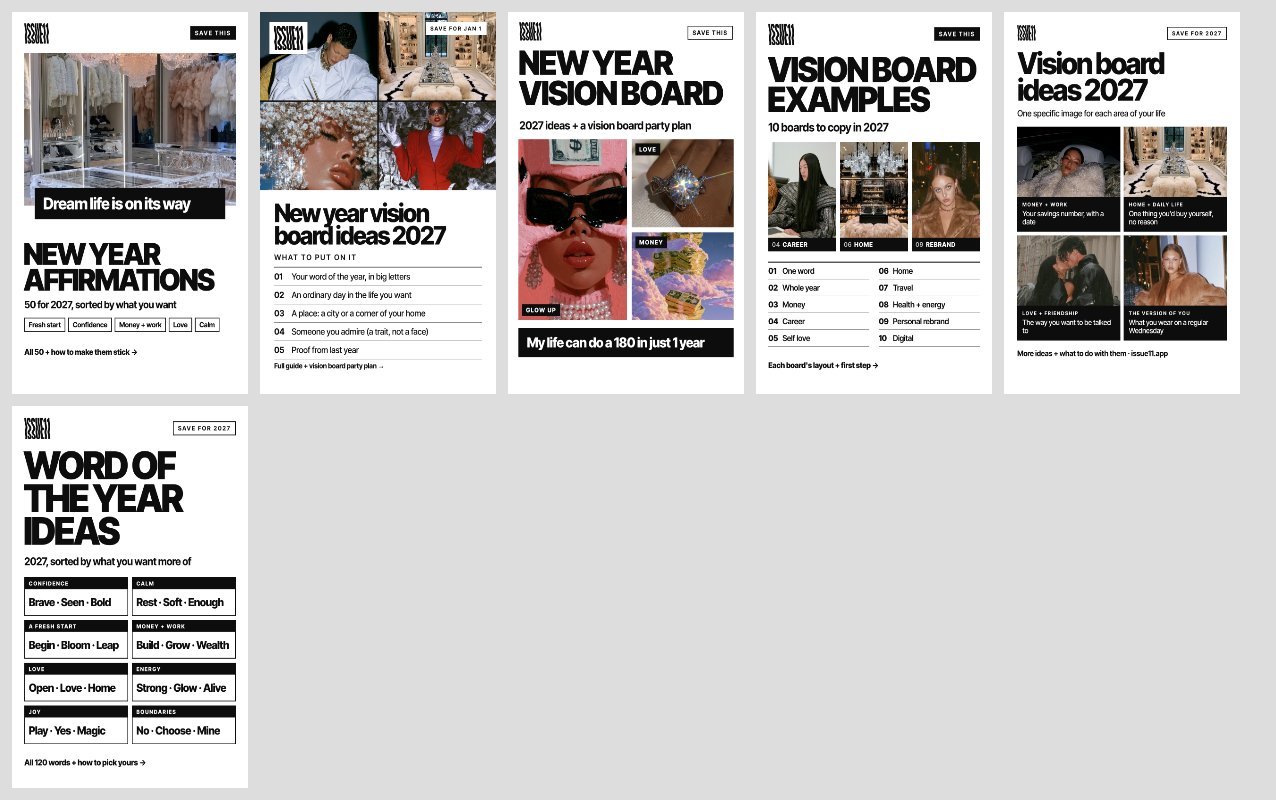
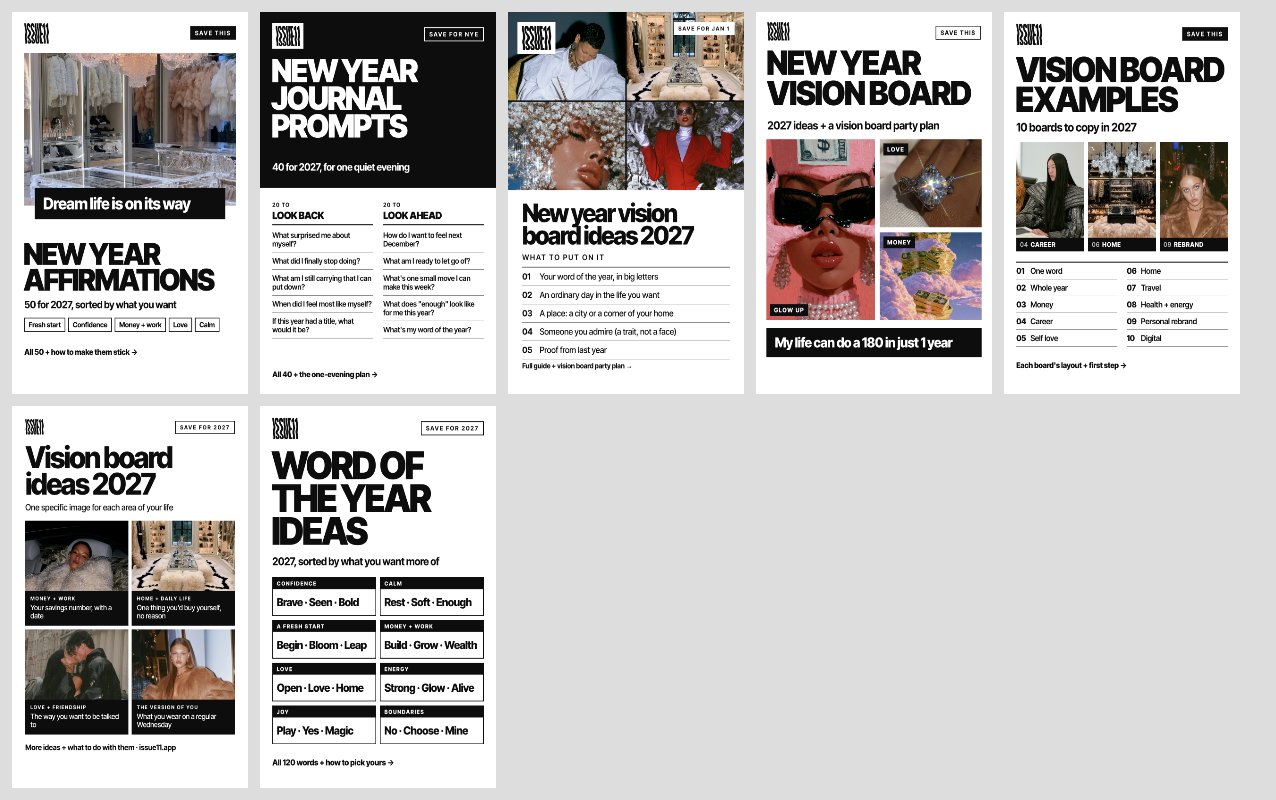
Pinterest hourly: new-year-journal-prompts article pin (QA passed)
Claude-Session: https://claude.ai/code/session_01YGtmQppBCBt9nypMHzxSp1

diff --git a/drafts/pinterest/article-pins/ArticlePinNYJ.dc.html b/drafts/pinterest/article-pins/ArticlePinNYJ.dc.html
@@ -1,0 +1,61 @@
+<!doctype html>
+<html lang="en">
+<head>
+<meta charset="utf-8">
+<title>Article pin · new-year-journal-prompts · 40 for 2027</title>
+<script src="./support.js"></script>
+</head>
+<body>
+<x-dc>
+<helmet>
+<link href="https://fonts.googleapis.com/css2?family=Inter+Tight:wght@500;600;700;800;900&amp;display=swap" rel="stylesheet">
+<style>
+body{margin:0}
+.pin{width:1000px;height:1500px;position:relative;overflow:hidden;background:#fff;color:#0D0D0D;font-family:'Inter Tight',system-ui,sans-serif}
+.top{position:absolute;left:0;right:0;top:0;height:690px;background:#0D0D0D;color:#fff}
+.logo{position:absolute;left:52px;top:44px;height:80px;background:#fff;padding:10px 14px}
+.save{position:absolute;right:52px;top:60px;border:3px solid #fff;font-weight:700;font-size:24px;letter-spacing:.16em;padding:10px 18px}
+h1{position:absolute;left:48px;right:48px;top:176px;margin:0;font-weight:900;font-size:126px;line-height:.86;letter-spacing:-.05em;text-transform:uppercase}
+.sub{position:absolute;left:52px;top:584px;font-weight:700;font-size:40px;letter-spacing:-.025em}
+.cols{position:absolute;left:52px;right:52px;top:744px;display:grid;grid-template-columns:1fr 1fr;column-gap:44px}
+.col h2{margin:0 0 6px;font-weight:900;font-size:40px;letter-spacing:-.03em;text-transform:uppercase;border-bottom:4px solid #0D0D0D;padding-bottom:10px}
+.col h2 small{display:block;font-size:22px;font-weight:700;letter-spacing:.12em;margin-bottom:4px}
+.col p{margin:0;padding:16px 0;border-bottom:1.5px solid #0D0D0D;font-weight:600;font-size:30px;line-height:1.14;letter-spacing:-.015em}
+.cta{position:absolute;left:52px;top:1404px;font-size:31px;font-weight:800;letter-spacing:-.015em}
+</style>
+</helmet>
+<div class="pin">
+  <div class="top">
+    <img class="logo" src="/_blob/d196614efc6265e2205729134fb523b8" alt="ISSUE11">
+    <div class="save">SAVE FOR NYE</div>
+    <h1>New year journal prompts</h1>
+    <div class="sub">40 for 2027, for one quiet evening</div>
+  </div>
+  <div class="cols">
+    <div class="col">
+      <h2><small>20 to</small>Look back</h2>
+      <p>What surprised me about myself?</p>
+      <p>What did I finally stop doing?</p>
+      <p>What am I still carrying that I can put down?</p>
+      <p>When did I feel most like myself?</p>
+      <p>If this year had a title, what would it be?</p>
+    </div>
+    <div class="col">
+      <h2><small>20 to</small>Look ahead</h2>
+      <p>How do I want to feel next December?</p>
+      <p>What am I ready to let go of?</p>
+      <p>What's one small move I can make this week?</p>
+      <p>What does "enough" look like for me this year?</p>
+      <p>What's my word of the year?</p>
+    </div>
+  </div>
+  <div class="cta">All 40 + the one-evening plan →</div>
+</div>
+</x-dc>
+<script type="text/x-dc" data-dc-script data-props='{"$preview":{"width":1000,"height":1500}}'>
+class Component extends DCLogic {
+  renderVals() { return {}; }
+}
+</script>
+</body>
+</html>

diff --git a/drafts/pinterest/article-pins/INDEX.md b/drafts/pinterest/article-pins/INDEX.md
@@ -11,6 +11,7 @@ Source boards: Claude Design Lead Magnets canvas (https://claude.ai/artifact/MZr
 | ArticlePinVBE | issue11.app/blog/vision-board-examples | png/ArticlePinVBE.png | Vision Board Examples: 10 Boards to Copy in 2027 | "Vision board examples" with career, home and personal rebrand photos and a list of 10 board types, from one word to digital | Pass 390 + 236 (Nov 16) | ready for Framer |
 | ArticlePinWOTY | issue11.app/blog/word-of-the-year-ideas | png/ArticlePinWOTY.png | Word of the Year Ideas 2027: 120 Words + How to Choose Yours | Text-only pin: "Word of the year ideas" over eight boxes of word ideas grouped by what you want more of, from confidence to boundaries | Pass 390 + 236 (Nov 16) | ready for Framer |
 | ArticlePinNYA | issue11.app/blog/new-year-affirmations | png/ArticlePinNYA.png | New Year Affirmations 2027: 50 Short Affirmations for Money, Love + a Fresh Start | A crystal walk-in closet (no people) with the line "Dream life is on its way", the title "New year affirmations" and five topic tags: fresh start, confidence, money + work, love, calm | Pass 390 + 236 (Nov 16) | ready for Framer |
+| ArticlePinNYJ | issue11.app/blog/new-year-journal-prompts | png/ArticlePinNYJ.png | New Year Journal Prompts 2027: 40 Reflection + Goal Setting Questions for One Evening | Text-only pin: "New year journal prompts" in a black band over two columns, "Look back" and "Look ahead", each with five prompts from the article | Pass 390 + 236 (Nov 16) | ready for Framer |
 
 Keyword check for ArticlePinVBE: Pinterest autocomplete (Apify, Nov 16) suggests "vision board examples" with "inspiration", "aesthetic", "life", "career" and "manifestation" variants. Raw: `../2026-11-16-vision-board-examples-keywords.json`. No volume figure from Pinterest; Google US 11,000/mo per QUEUE.md.
 
@@ -18,4 +19,6 @@ Keyword check for ArticlePinWOTY: Pinterest autocomplete (Apify, Nov 16) top sug
 
 Keyword check for ArticlePinNYA: Pinterest autocomplete (Apify, Nov 16) suggests "new year affirmations" with "short", "money", "love", "quotes" and "wallpaper" variants. Raw: `../2026-11-16-new-year-affirmations-keywords.json`. The quote is Megan's line from BANK.md ("Dream life is on its way"). The article's own 50 affirmations are not in BANK.md, so the pin shows only their 5 category names and quotes none of them. Photo is an AI-generated library image (AI label applies if ever posted as a pin).
 
-Next articles without a pin (New Year first): new-year-journal-prompts · december-january-journal-prompts · how-to-make-a-vision-board · journaling-prompts.
+Keyword check for ArticlePinNYJ: Pinterest autocomplete (Apify, Nov 16) suggests "new year journal prompts" with "goal settings", "reflection", "simple" and "short" variants. Raw: `../2026-11-16-new-year-journal-prompts-keywords.json`. The 10 prompts on the pin are copied word for word from the article. Text-only, so no AI label needed.
+
+Next articles without a pin (New Year first): december-january-journal-prompts · how-to-make-a-vision-board · journaling-prompts.

diff --git a/drafts/pinterest/HOURLY-LOG.md b/drafts/pinterest/HOURLY-LOG.md
@@ -1,5 +1,6 @@
 # Pinterest agent: hourly log (newest first)
 
+- 2026-11-16 06:2x UTC · Job 1: made ArticlePinNYJ (new-year-journal-prompts), a text-only pin with 10 prompts copied word for word from the article. Added to the canvas (v37) and INDEX.md as "ready for Framer". Visual QA at 390 + 236 passed after one fix: the title ran into the subtitle and the bottom was empty, so I made the band taller and added one prompt per column.
 - 2026-11-16 05:2x UTC · Job 1: made ArticlePinNYA (new-year-affirmations), added to the canvas (v36) and INDEX.md as "ready for Framer". Visual QA at 390 + 236 passed (moved the CTA up to close a gap). Flag for Megan: the article's 50 affirmations aren't in BANK.md, so the pin quotes only her line "Dream life is on its way" and shows the article's category names.
 - 2026-11-16 04:2x UTC · Job 1: made ArticlePinWOTY (word-of-the-year-ideas), a text-only pin with words taken from the article. Added to the canvas (v35) and INDEX.md as "ready for Framer". Visual QA at 390 + 236 passed after one fix: two word rows wrapped, so I swapped in shorter words from the same list.
 - 2026-11-16 03:2x UTC · Re-saved the 3 Nov 16 article pins from the Claude Design canvas (they never reached the branch): ArticlePinNYVB, ArticlePinNYVB2, ArticlePinVBI, now in article-pins/ with PNGs, logged in INDEX.md. Job 1: made ArticlePinVBE (vision-board-examples), added to the canvas (v34) and INDEX.md as "ready for Framer". Visual QA at 390 + 236 passed for all 4. Self-corrected one tile: swapped a cash photo for a rebrand photo because the article says a money board shows what the money is for, "not piles of cash". Note: the articles live at /blog/<slug> (bare /<slug> is a 404).
